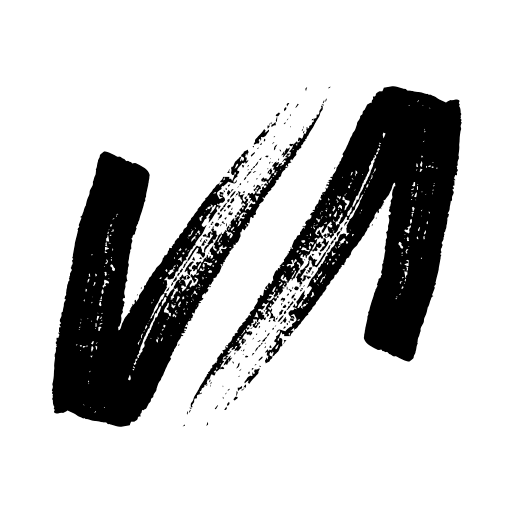
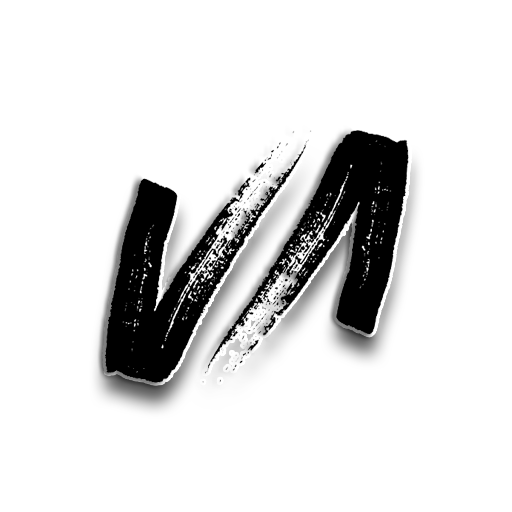
a

diff --git a/app.js b/app.js
@@ -112,7 +112,7 @@ app.get("/node_modules/owl.carousel/dist/owl.carousel.min.js", (req, res) => {
 //IMGs
 
 app.get("/img/devvolt.png", (req, res) => {
-  res.sendFile(path.join(__dirname, "img/devvolt.png"));
+  res.sendFile(path.join(__dirname, "img/2.png"));
 });
 app.get("/img/whentheimpostor.png", (req, res) => {
   res.sendFile(path.join(__dirname, "img/whentheimpostor.png"));
@@ -152,7 +152,9 @@ app.get("logos/dvdlogo-07.png", (req, res) => {
 */
 //TODO: dashboard
 
+const port = 443
+
 //Server Listener (HTTPS)
-sslServer.listen(443,() => {
-  console.log(`HTTPS server started 🚀...`);
+sslServer.listen(port,() => {
+  console.log(`HTTPS server started on ${port} 🚀...`);
 });

diff --git a/includes/dbh.inc.php b/includes/dbh.inc.php
@@ -3,7 +3,7 @@
 $serverName = "localhost";
 $dBUsername = "root";
 $dBPassword = "";
-$dbName = "sitoweb";
+$dbName = "website";
 
 $conn = mysqli_connect($serverName, $dBUsername, $dBPassword, $dbName);
 
